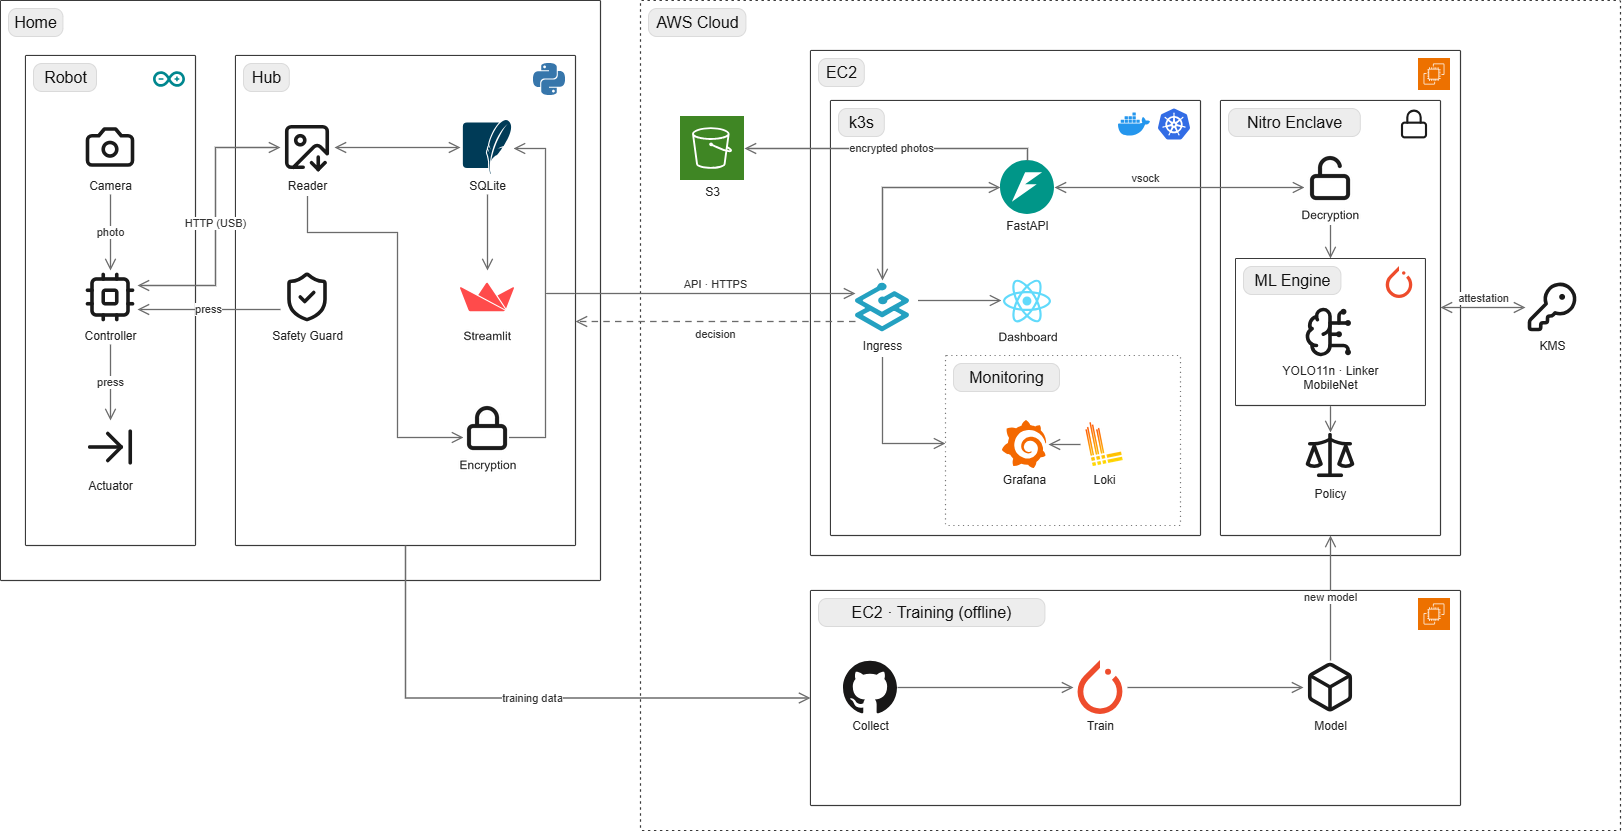
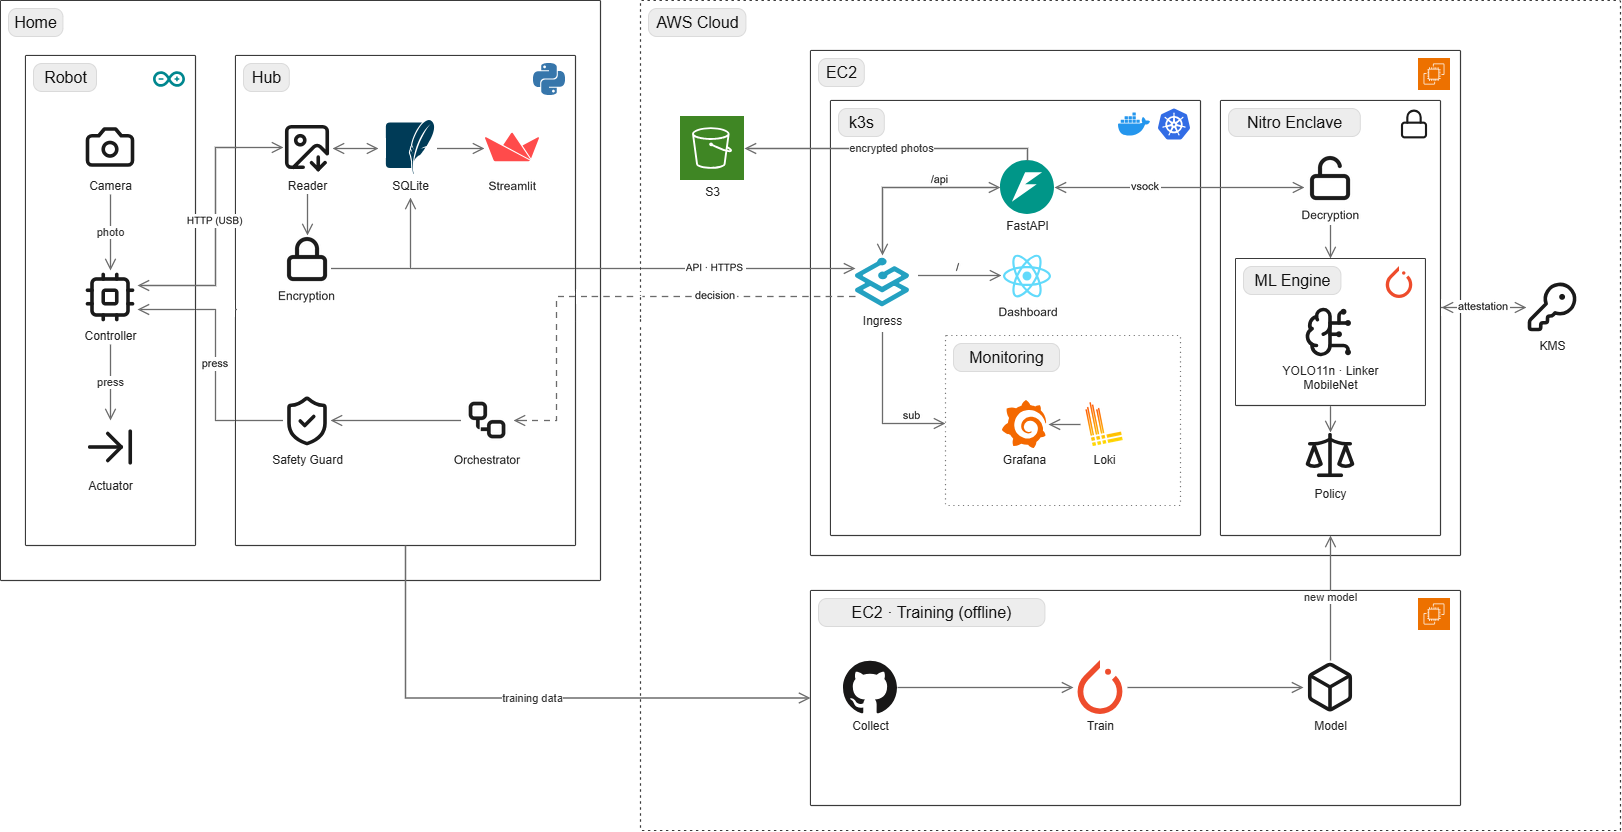
Add the Orchestrator to the hub and tidy the architecture figure
A decision from the cloud now goes to the Orchestrator, which hands the press to the
Safety Guard. The hub is laid out in three rows with no crossing lines. Labels on the
ingress paths sit above their arrows; every other label sits on its line, all at one size.

diff --git a/profile/README.md b/profile/README.md
@@ -18,7 +18,7 @@ Every action is checked rather than assumed, high-risk devices always ask first,
 
 ## ⚙ System Architecture
 
-![NOVA System Architecture](./architecture.png?v=5)
+![NOVA System Architecture](./architecture.png?v=6)
 
 ---
 
